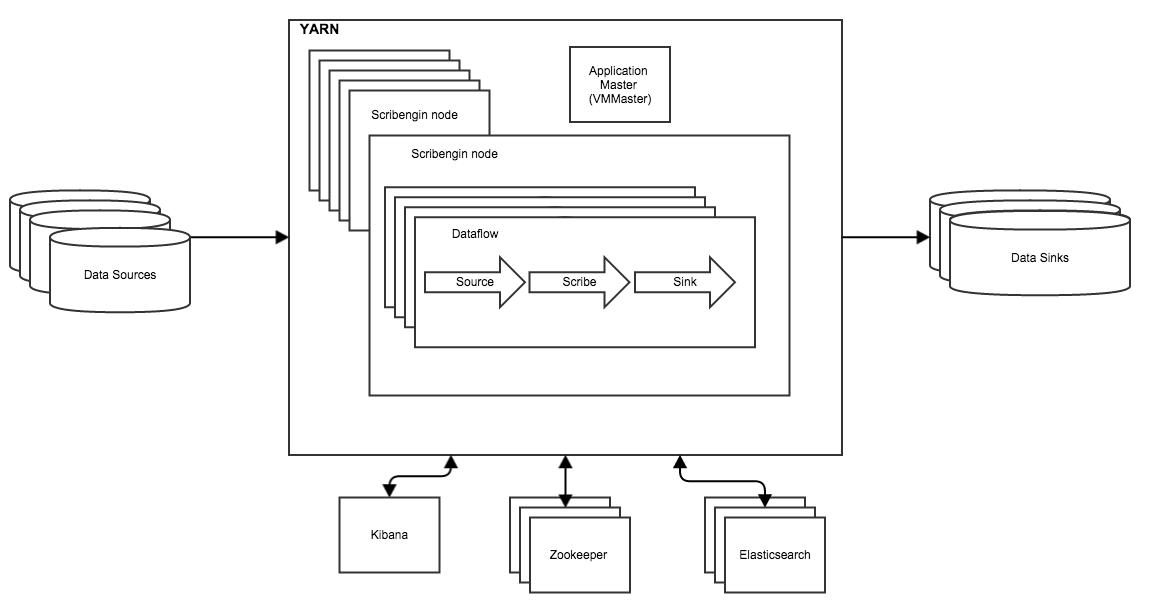
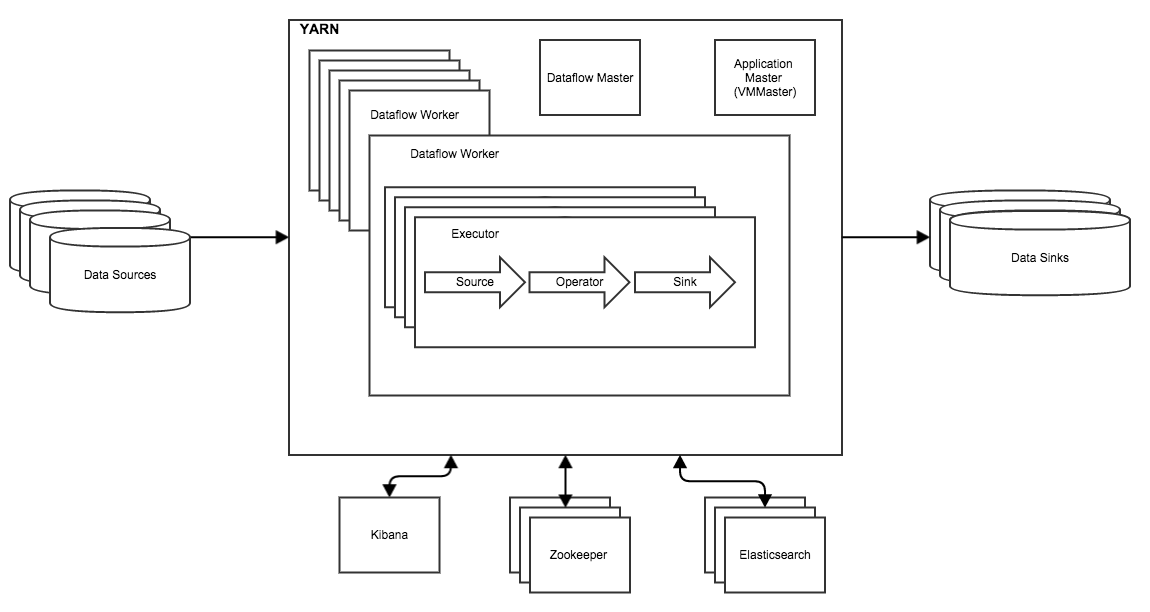
Adding terminology

diff --git a/docs/terminology.md b/docs/terminology.md
@@ -1,0 +1,68 @@
+Scribengin Terminology
+======================
+
+#Introduction
+In this document we'll discuss some of the higher level concepts of Scribengin.  The terminology in this guide will be used in other documents, so please refer back to this guide as a reference.
+
+#High Level Cluster Design
+The Scribengin Cluster at a high level.  The VM Master provisions containers, the Workers launch Dataflows, and the Dataflow's Tasks move data.
+
+![Scribengin Cluster Design](images/ScribenginStructureOverviewV2.png "Scribengin Cluster Design")
+
+#High Level Dataflow
+A Dataflow at a high level.  Data comes in from a source through a DataStream, is processed by a Dataflow, and is output into a Sink.
+
+![Scribengin](images/ScribeIntro.png "Scribengin")
+
+#Terms
+
+##VM Master
+The **VM Master** provisions containers for Scribengin.  Any time Scribengin requires a new container (i.e. for a dataflow worker or master), Scribengin must request the container from the VM Master.
+
+Currently it is implemented in YARN for production.  The VM Master role is filled by a custom YARN Application Master. 
+
+The VM Master is also implemented in-memory for unit testing).
+
+##Registry
+The **Registry** is the central place for tracking and configuration in Scribengin.  The **Registry** is implemented in Zookeeper.  Information such as **Dataflow** configuration, internal tasks, and tracking VMs are all stored centrally in the **Registry**
+
+##Dataflow
+A dataflow is how Scribengin moves data from a **source** into a **sink**.  A Dataflow is made up of a **Dataflow Master** and **Dataflow Workers** working to move data from a **Source** to a **Sink** in a reliable, performant way.
+
+##Source
+A **Source** is input data.  A **Source** can come from many different datastores, whether its Kafka, HDFS, S3, or something else.
+
+##Sink
+A **Sink** is where data ends up at the end of a **Dataflow**.  A **Source** can be Kafka, HDFS, S3, or any other datastore.
+
+##Dataflow Master
+The **Dataflow Master** monitors all the workers in a dataflow.  If a worker is lost due to error or failure, it replaces the worker and continues the dataflow.
+
+##Dataflow Worker
+A **Worker** is equivalent to a YARN container/VM/container for Scribengin to launch a node in.  Its the container requested by Scribengin from the VM Master.  Each **Worker** contains multiple **Executors**.
+
+##Executor
+An **Executor** can be thought of as a thread within the **Worker**.  Each **Executor** has slots to work on TWO **DataStreamOperators**.  These slots can work on any **DataStreamOperator**, and can also switch which task its working on.
+
+##Operator 
+An **Operator** is a collection of **DataStreamOperators** that all share the same logic.  Each **Executor** contains slots for two **DataStreamOperators**.
+
+##DataStreamOperators
+**DataStreamOperators** contain the arbitrary logic for transferring, transforming, filtering, and enhancing data.
+
+##Wire
+A **Wire** is a way of connecting different **DataStreamOperators**.  **DataStreamOperators** can be connected by placing a KafkaWire between them which uses a Kafka topic between the operators for better reliability.
+
+##DataStream
+A **DataStream** is a partition of data going through Scribengin.
+
+
+
+
+
+
+
+
+
+
+

diff --git a/docs/dataflowDevelopment/configuringDataflows.md b/docs/dataflowDevelopment/configuringDataflows.md
@@ -19,19 +19,7 @@ Configuring Dataflows
 
 Scribengin works by splitting data up into concurrent streams and dividing the work up between workers and executors.
 
-#Definitions
-
-A **Worker** is equivalent to a YARN container/VM/container for Scribengin to launch a node in.  Its the container requested by Scribengin from the VM Master.
-
-Each **Worker** contains multiple **Executors**.  An **Executor** can be thought of as a thread within the **Worker**.
-
-An **Operator** is a collection of **DataStreamOperators** that all share the same logic.
-
-Each **Executor** contains slots for two **DataStreamOperators**.  
-
-**DataStreamOperators** contain the arbitrary logic for transferring, transforming, filtering, and enhancing data.
-
-A **DataStream** is a partition of data going through Scribengin.
+[Refer to terminology for help on understanding terminology](../terminology.md)
 
 #Worker Breakdown
 
@@ -72,7 +60,7 @@ dfl.setDefaultParallelism(defaultParallelism);
 
 ##Default Replication
 
-The default replication to use for Kafka
+The default replication to use for Kafka, HDFS, or any other dataStore that supports replication.  Has no impact on dataSources that do not support configurable replication.
 
 ```java
 dfl.setDefaultReplication(defaultReplication).

diff --git a/README.md b/README.md
@@ -54,12 +54,12 @@ A distributed, highly reliable ETL system that can handle multiple sources and s
 ####Quickstart Guide
 Get Scribengin launched quickly!  This will walk you how to start a Scribengin instance in YARN.
 
-- [QuickStart Guide](docs/scribengin-cluster-setup-quickstart.md)
+- [QuickStart Guide](docs/deployment/scribengin-cluster-setup-quickstart.md)
 
 
 ####How to launch a cluster in an arbitrary environment (i.e. in-house cluster, AWS, etc)
 
-- [Arbitrary Cluster Guide](docs/arbitrary-cluster-guide.md)
+- [Arbitrary Cluster Guide](docs/deployment/arbitrary-cluster-guide.md)
 
 
 ####Developer Info

diff --git a/docs/deployment/scribengin-cluster-setup-quickstart.md b/docs/deployment/scribengin-cluster-setup-quickstart.md
@@ -241,7 +241,7 @@ These steps will be necessary if you do not have access to Nvent's private autom
         #To check the scribengin status
         ./shell.sh vm info
 
-4.  [Use the Scribengin API to upload your Dataflow.](dataflowDevelopment/dataflowDevTableOfContents.md)
+4.  [Use the Scribengin API to upload your Dataflow.](../dataflowDevelopment/dataflowDevTableOfContents.md)
 
 
 #Launching a dataflow from a preconfigured test#

diff --git a/docs/dataflowDevelopment/simpleDataflowDev.md b/docs/dataflowDevelopment/simpleDataflowDev.md
@@ -503,7 +503,7 @@ cd NeverwinterDP
 
 ###Deploying
 
-[Follow the instructions on how to start Scribengin here](../scribengin-cluster-setup-quickstart.md#arbitrary-cluster-setup)
+[Follow the instructions on how to start Scribengin here](../deployment/scribengin-cluster-setup-quickstart.md#arbitrary-cluster-setup)
 
 ###Running
 
